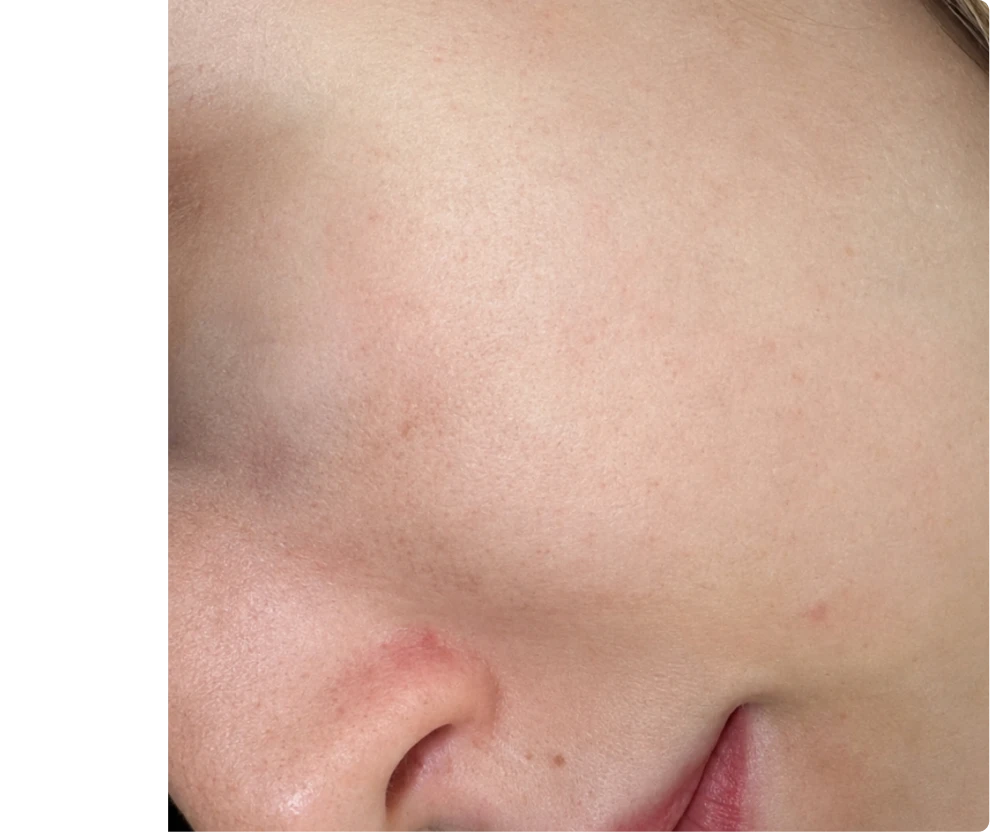
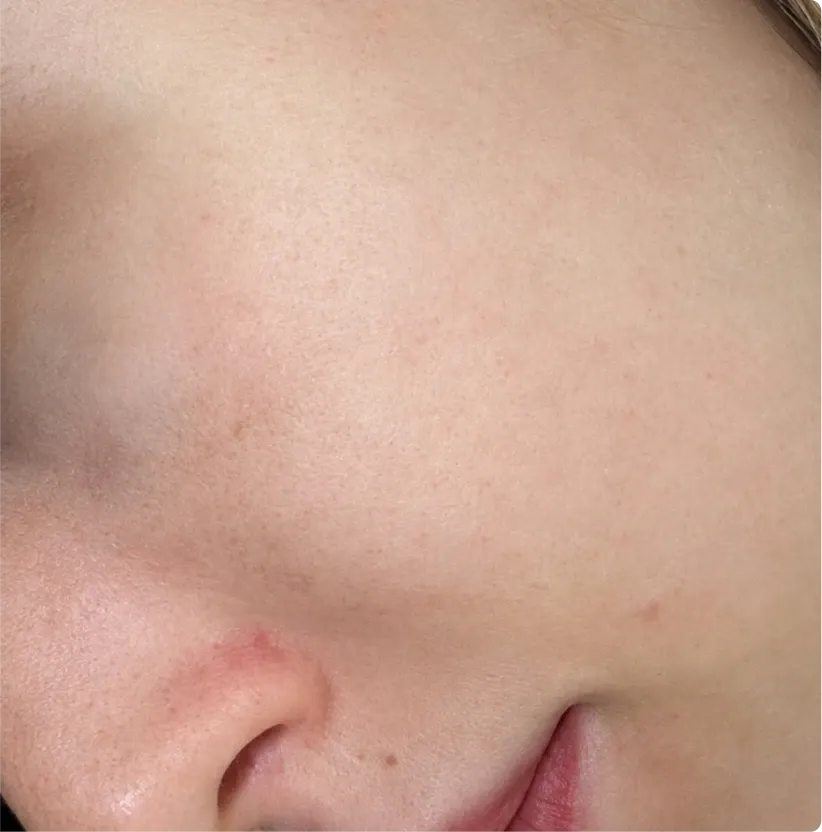
fix: refine PDP before/after slider and actives callout positions
Simplifies the before/after drag state (single dragging flag instead
of ref+state), updates the before/after crop images, nudges the
actives section callout coordinates, and fixes the AI analysis accent
color to use the PDP green instead of the product's background color.

diff --git a/src/sections/product/ProductBeforeAfterSection.jsx b/src/sections/product/ProductBeforeAfterSection.jsx
@@ -25,72 +25,66 @@ function SliderHandle({ hideKnob }) {
 }
 
 function BeforeAfterCard({ item, beforeLabel, afterLabel }) {
-  const imageRef = useRef(null);
-  const draggingRef = useRef(false);
+  const frameRef = useRef(null);
   const [position, setPosition] = useState(50);
-  const [isActive, setIsActive] = useState(false);
+  const [dragging, setDragging] = useState(false);
 
   const updateFromClientX = (clientX) => {
-    const el = imageRef.current;
-    if (!el) return;
-    const rect = el.getBoundingClientRect();
+    const rect = frameRef.current.getBoundingClientRect();
     const ratio = ((clientX - rect.left) / rect.width) * 100;
     setPosition(Math.min(100, Math.max(0, ratio)));
   };
 
+  // Mouse: a posicao segue o hover, sem precisar clicar. Touch: precisa arrastar
+  // (nao existe hover em touch, e mover o dedo sem pressionar tambem rolaria a pagina).
   const handlePointerMove = (event) => {
-    if (event.pointerType === 'mouse' || draggingRef.current) {
+    if (event.pointerType === 'mouse' || dragging) {
       updateFromClientX(event.clientX);
     }
   };
 
   const handlePointerDown = (event) => {
     if (event.pointerType === 'mouse') return;
-    draggingRef.current = true;
-    setIsActive(true);
-    imageRef.current?.setPointerCapture(event.pointerId);
+    frameRef.current.setPointerCapture(event.pointerId);
+    setDragging(true);
     updateFromClientX(event.clientX);
   };
 
-  const endDrag = (event) => {
-    if (!draggingRef.current) return;
-    draggingRef.current = false;
-    setIsActive(false);
-    if (imageRef.current?.hasPointerCapture(event.pointerId)) {
-      imageRef.current.releasePointerCapture(event.pointerId);
+  const stopDragging = (event) => {
+    setDragging(false);
+    if (frameRef.current?.hasPointerCapture(event.pointerId)) {
+      frameRef.current.releasePointerCapture(event.pointerId);
     }
   };
 
   const handlePointerEnter = (event) => {
-    if (event.pointerType !== 'mouse') return;
-    setIsActive(true);
+    if (event.pointerType === 'mouse') setDragging(true);
   };
 
   const handlePointerLeave = (event) => {
-    if (event.pointerType !== 'mouse') return;
-    if (!draggingRef.current) setIsActive(false);
+    if (event.pointerType === 'mouse') setDragging(false);
   };
 
   return (
     <div className="before-after__card">
       <div
-        className={`before-after__image${isActive ? ' is-active' : ''}`}
-        ref={imageRef}
+        className={`before-after__image${dragging ? ' is-active' : ''}`}
+        ref={frameRef}
         onPointerMove={handlePointerMove}
         onPointerDown={handlePointerDown}
-        onPointerUp={endDrag}
-        onPointerCancel={endDrag}
+        onPointerUp={stopDragging}
+        onPointerCancel={stopDragging}
         onPointerEnter={handlePointerEnter}
         onPointerLeave={handlePointerLeave}
       >
         <img
-          className="before-after__photo before-after__photo--base"
+          className="before-after__photo"
           src={item.beforeImage}
           alt={`${item.name} antes`}
           draggable={false}
         />
         <img
-          className="before-after__photo before-after__photo--reveal"
+          className="before-after__photo"
           src={item.afterImage}
           alt={`${item.name} depois`}
           draggable={false}
@@ -101,7 +95,7 @@ function BeforeAfterCard({ item, beforeLabel, afterLabel }) {
         <span className="before-after__badge before-after__badge--right">{afterLabel}</span>
 
         <div className="before-after__handle" style={{ left: `${position}%` }}>
-          <SliderHandle hideKnob={isActive} />
+          <SliderHandle hideKnob={dragging} />
         </div>
       </div>
 

diff --git a/src/sections/product/ProductActivesSection.css b/src/sections/product/ProductActivesSection.css
@@ -90,7 +90,7 @@
 }
 
 .product-actives__callout--left-top {
-  top: 18.697917vw;
+  top: 19.219194vw;
   left: 22.916667%;
 }
 
@@ -100,15 +100,15 @@
 }
 
 .product-actives__callout--right-top {
-  top: 18.697917vw;
+  top: 18.784556vw;
   right: 23.4375%;
   flex-direction: row-reverse;
   text-align: right;
 }
 
 .product-actives__callout--left-bottom {
-  top: 31.822917vw;
-  left: 12.864583%;
+  top: 32.067116vw;
+  left: 12.6%;
 }
 
 .product-actives__callout--left-bottom>div,
@@ -117,8 +117,8 @@
 }
 
 .product-actives__callout--right-bottom {
-  top: 31.71875vw;
-  right: 13.020833%;
+  top: 31.755781vw;
+  right: 12.0%;
   flex-direction: row-reverse;
   text-align: right;
 }

diff --git a/src/sections/global/AiAnalysisSection.jsx b/src/sections/global/AiAnalysisSection.jsx
@@ -6,6 +6,7 @@ import blobBottomLeft from '../../assets/images/ai-analysis/ai-analysis-jar-bott
 import './AiAnalysisSection.css';
 
 const DEFAULT_ACCENT = '#FFBD35';
+const PDP_ACCENT = '#1C8C44';
 
 const BLOBS = [
   { key: 'a', src: blobTopRight },
@@ -29,7 +30,7 @@ function AiAnalysisDecor({ variant }) {
 }
 
 export default function AiAnalysisSection({ product }) {
-  const accentColor = product?.backgroundColor || DEFAULT_ACCENT;
+  const accentColor = product ? PDP_ACCENT : DEFAULT_ACCENT;
 
   return (
     <section

diff --git a/src/sections/product/ProductBeforeAfterSection.css b/src/sections/product/ProductBeforeAfterSection.css
@@ -88,9 +88,14 @@
   aspect-ratio: 494.61 / 416.386;
   overflow: hidden;
   border-radius: 22.82px;
-  cursor: none;
   touch-action: pan-y;
   user-select: none;
+}
+
+@media (hover: hover) and (pointer: fine) {
+  .before-after__image:hover {
+    cursor: none;
+  }
 }
 
 .before-after__photo {
